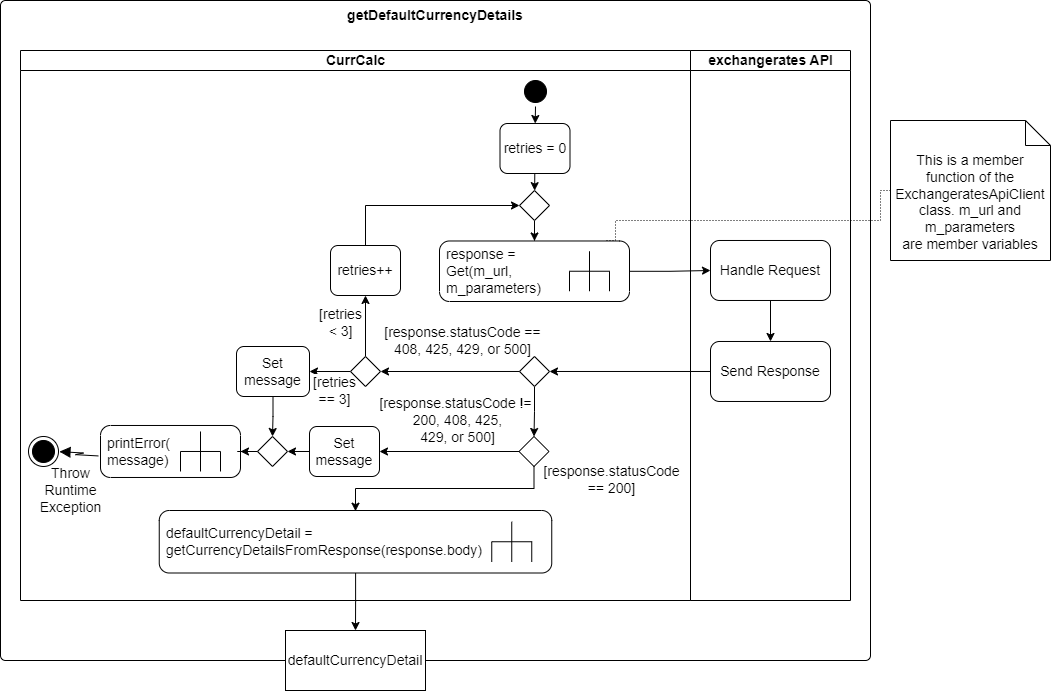
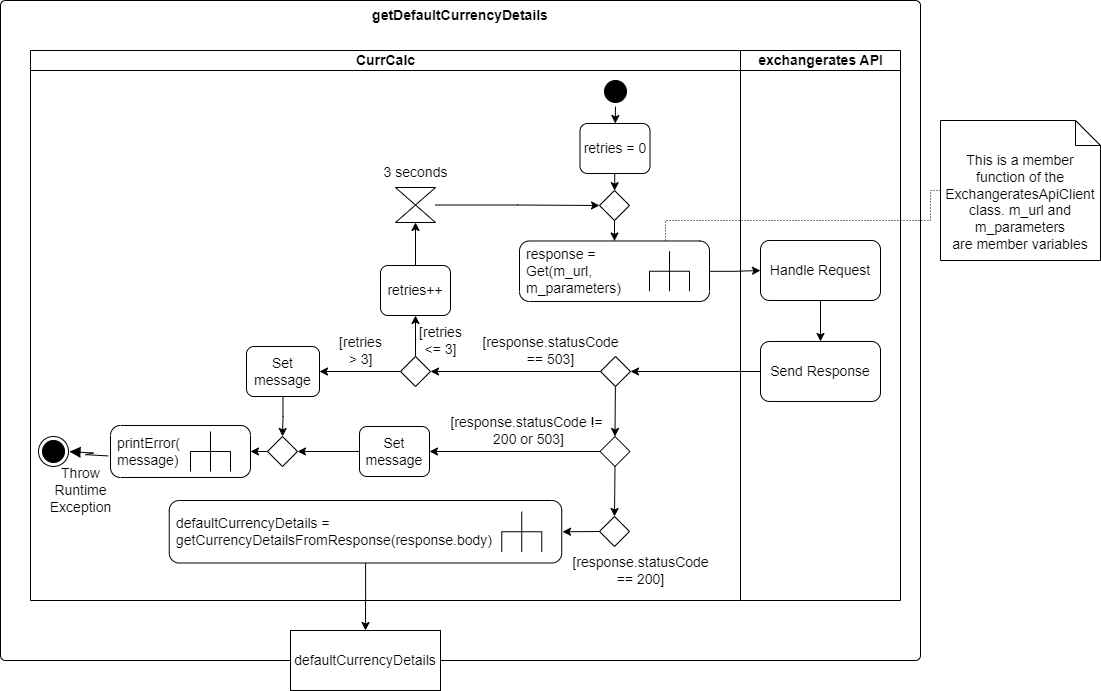
- Reworked class diagram - Updated class diagram description - Reworked activity diagrams - Reworked and added to activity diagram descriptions - Corrected typos - Reworked use case description

diff --git a/documentation/README.md b/documentation/README.md
@@ -1,6 +1,6 @@
 # Software Design
 
-This file contains all the documentation to CurrCalc's software design. This includes functional requirements, non-functional requirements, and architectural diagrams and descriptions.
+This file contains all the documentation to CurrCalc's software design. This includes functional requirements, non-functional requirements, and architectural diagrams and their descriptions.
 
 ## Table of Contents
 1. **[Goal](#goal)**</br>
@@ -14,29 +14,31 @@ This file contains all the documentation to CurrCalc's software design. This inc
 5. **[Class Diagram](#class-diagram)**</br>
 6. **[Activity Diagrams](#activity-diagrams)**</br>
   6.1 **[Convert Currency](#convert-currency)**</br>
-  6.2 **[getDefaultCurrencyDetails](#getDefaultCurrencyDetails)**</br>
-  6.3 **[getCurrencySelection](#getCurrencySelection)**</br>
-  6.4 **[convertAmount](#convertAmount)**</br>
+  6.2 **[getDefaultCurrencyDetails](#getdefaultcurrencydetails)**</br>
+  6.3 **[getCurrencySelection](#getcurrencyselection)**</br>
+  6.4 **[convertAmount](#convertamount)**</br>
 
 # Goal
 
-CurrCalc is a C++ program, written in C++20, that converts an amount of money from one currency to another. The initial and target currencies as well as the amount are provided by the user, while the currency data is fetched from the [exchangerates API](https://exchangeratesapi.io/documentation/).
+CurrCalc is a console-based program, written in C++20, that converts an amount of money from one currency to another. The initial and target currencies, as well as the amount, are provided by the user while the currency data is fetched from the [exchangerates API](https://exchangeratesapi.io/documentation/).
 
 # Rough Overview
 
-![CurrCalc Rough Overview](https://github.com/DusDus3428/CPP_CurrCalc/blob/feature/01_design/documentation/images/diagrams/01_CurrCalc_RoughOverview.png "CurrCalc Rough Overview")
+![CurrCalc Rough Overview](./images/diagrams/01_CurrCalc_RoughOverview.png "CurrCalc Rough Overview")
 
 A user interacts with CurrCalc by selecting the initial and target currencies and specifying the conversion amount. 
-CurrCalc requests currency data, like the list of available currencies and exchange rates from the external exchangesrates API. If everything goes well, the API will respond with a positive status code and the requested data or, in case of a failure, with just a status code. The REST protocol will be used in the communication between CurrCalc and the exchangerates API.
+CurrCalc requests currency data, like the list of available currencies and exchange rates from the external exchangesrates API. The API responds with a status code and the requested data or, in case of a failure, with just a status code. The REST protocol is used in the communication between CurrCalc and the exchangerates API.
 
 # Requirements
+
+Here are CurrCalc's functional and non-functional requirements.
 
 ## Functional Requirements
 
 | ID        	| Title                          | Description/Use Case (where possible)  														  |
 | ------------- | ------------------------------ | ------------------------------------------------------------------------------------------------------------------------------------------------------ |
 | CurrCalc_FR_1 | Fetch Currencies 		 | CurrCalc should fetch the list of all available currencies from the exchangerates API, so a user is guaranteed up-to-date currency information. 	  |
-| CurrCalc_FR_2 | Select Initial/Target Currency | As a user, I want to select the initial currency and target currency for the conversion from a numbered list, so I know what currencies are available. |
+| CurrCalc_FR_2 | Select Initial/Target Currency | As a user, I want to select the initial and target currencies for the conversion from a numbered list, so I know what currencies are available. |
 | CurrCalc_FR_3 | Specify Conversion Amount 	 | As a user, I want to type in the amount I would like to convert from the initial currency to the target one. |
 | CurrCalc_FR_4 | Fetch Exchange Rates	 | CurrCalc should fetch exchange rates from the exchangerates API, so a user is guaranteed up-to-date exchange rates for the initial and target currencies. |
 | CurrCalc_FR_5 | Convert Amount		 | CurrCalc should convert the specified amount from the selected initial currency to the selected target currency using the appropriate exchange rate fetched in CurrCalc_FR_4. |
@@ -46,14 +48,14 @@ CurrCalc requests currency data, like the list of available currencies and excha
 | ID        	 | Title                          | Description																		   |
 | -------------- | ------------------------------ | ------------------------------------------------------------------------------------------------------------------------------------------------------ |
 | CurrCalc_NFR_1 | Do Not Store API Key In The Repository | The API key to the exchangerates API should not be stored in the online GitHub repository. 	  |
-| CurrCalc_NFR_2 | Retry Failed REST Requests 	  | If the data retrieval requests specified in CurrCalc_FR_2 and CurrCalc_FR_4 return with status code 408, 425, 429, or 500, they should be retried three more times in intervals of three seconds. If no successful request can be processed after that, CurrCalc should terminate with an error message.   |
+| CurrCalc_NFR_2 | Retry Failed REST Requests 	  | If the data retrieval requests specified in CurrCalc_FR_2 and CurrCalc_FR_4 return with status code 503, they should be retried three more times in intervals of three seconds. If no successful request can be processed after that, CurrCalc should terminate with an error message.   |
 | CurrCalc_NFR_3 | Keep Precision of Five Fractional Digits For Conversion 	  | For the conversion an amount with a maximum of five fractional digits should be accepted. If the user inputs more than that, the amount should be rounded to five fractional digits.  |
 
 # Use Cases
 
 ## Use Case Diagram
 
-![CurrCalc Use Case Diagram](https://github.com/DusDus3428/CPP_CurrCalc/blob/feature/01_design/documentation/images/diagrams/02_CurrCalc_UseCaseDiagram.png "CurrCalc Use Case Diagram")
+![CurrCalc Use Case Diagram](./images/diagrams/02_CurrCalc_UseCaseDiagram.png "CurrCalc Use Case Diagram")
 
 There is only one possible use case when interacting with CurrCalc. The "Convert Currency" use case is triggered when the user starts the program, therefore the user is the primary actor. The exchangerates API is a secondary actor in this use case as CurrCalc must fetch the currency information from it.
 
@@ -85,13 +87,14 @@ There is only one possible use case when interacting with CurrCalc. The "Convert
 		<td>Basic Flow</td>
 		<td>
 			<ol type="1">
-				<li>CurrCalc prints a welcome message for the user in the terminal.</li>
+				<li>CurrCalc prints a welcome message for the user in the terminal</li>
 				<li>CurrCalc sends an HTTP GET request to the exchangerates API to retrieve default currency details
 					<ol type="i">
-						<li>The API responds with a JSON object containing the currency details for the default currency, including all exchange rates</li>
+						<li>The API responds with a JSON object containing the default currency details, which includes all exchange rates</li>
 					</ol>
 				</li>
-				<li>CurrCalc outputs a numbered list of currencies, extracted from the default currency details, and prompts the user to pick one for the initial currency
+				<li>CurrCalc extracts all currencies from the exchange rates</li>
+				<li>CurrCalc outputs all currencies in a numbered list and prompts the user to pick one for the initial currency
 					<ol type="i">
 						<li>The user types in the number of the desired initial currency
 							<ol type="a">
@@ -100,7 +103,7 @@ There is only one possible use case when interacting with CurrCalc. The "Convert
 						</li>
 					</ol>
 				</li>
-				<li>CurrCalc outputs a numbered list of currencies, extracted from the default currency details and excluding the initial currency, and prompts the user to pick one for the target currency
+				<li>CurrCalc outputs all currencies, excluding the initial one, in a numbered list and prompts the user to pick one for the target currency
 					<ol type="i">
 						<li>The user types in the number of the desired target currency
 							<ol type="a">
@@ -114,6 +117,7 @@ There is only one possible use case when interacting with CurrCalc. The "Convert
 						<li>The user types in the desired amount as a decimal number
 							<ol type="a">
 								<li>CurrCalc confirms the selection</li>
+								<li>CurrCalc rounds the amount to five fractional digits</li>
 							</ol>
 						</li>
 					</ol>
@@ -131,7 +135,7 @@ There is only one possible use case when interacting with CurrCalc. The "Convert
 	<tr>
 		<td>Alternative Flow(s)</td>
 		<td>
-			In 2.i: The API responds with a status codes 408, 425, 429, or 500
+			In 2.i: The API responds with status codes 503
 			<ol type="1">
 				<li>CurrCalc retries the request three more times in intervals of three seconds
 					<ol type="i">
@@ -144,26 +148,13 @@ There is only one possible use case when interacting with CurrCalc. The "Convert
 					</ol>
 				</li>
 			</ol><br/>
-			In 2.i: The API responds with a status code other than 200, 408, 425, 429, or 500
+			In 2.i: The API responds with a status code other than 200, or 503
 			<ol type="1">
-				<li>CurrCalc informs the user of the situation and offers possible solutions
+				<li>CurrCalc informs the user of the error
 					<ol type="i">
 						<li>CurrCalc terminates</li>
 					</ol>
 				</li>
-			</ol><br/>
-			In 3.i: The user types in an integer that is not on the list, a character, or a string
-			<ol type="1">
-				<li>CurrCalc responds with a prompt to make a selection based on the numbers provided in the list - back to 3 in the basic flow</li>
-			</ol><br/>
-			In 3.i: The user types in a decimal number, whose whole number part is on the list
-			<ol type="1">
-				<li>The fractional part of the number is truncated - proceed with 3.i.a in the basic flow</li>
-			</ol><br/>
-			In 3.i: The user types in a decimal number, whose whole number part is not on the list
-			<ol type="1">
-				<li>The fractional part of the number is truncated</li>
-				<li>CurrCalc responds with a prompt to make a selection based on the numbers provided in the list - back to 3 in the basic flow</li>
 			</ol><br/>
 			In 4.i: The user types in an integer that is not on the list, a character, or a string
 			<ol type="1">
@@ -178,13 +169,26 @@ There is only one possible use case when interacting with CurrCalc. The "Convert
 				<li>The fractional part of the number is truncated</li>
 				<li>CurrCalc responds with a prompt to make a selection based on the numbers provided in the list - back to 4 in the basic flow</li>
 			</ol><br/>
-			In 5.i: The user types in a positive integer
+			In 5.i: The user types in an integer that is not on the list, a character, or a string
 			<ol type="1">
-				<li>CurrCalc converts the integer into a decimal number and confirms the selection - proceed with 5.i.a in the basic flow</li>
+				<li>CurrCalc responds with a prompt to make a selection based on the numbers provided in the list - back to 5 in the basic flow</li>
 			</ol><br/>
-			In 5.i: The user types in a negative decimal number, a negative integer, a character, or a string
+			In 5.i: The user types in a decimal number, whose whole number part is on the list
 			<ol type="1">
-				<li>CurrCalc responds with a prompt to type in an unsigned number for the sum - back to 5.i in the basic flow</li>
+				<li>The fractional part of the number is truncated - proceed with 5.i.a in the basic flow</li>
+			</ol><br/>
+			In 5.i: The user types in a decimal number, whose whole number part is not on the list
+			<ol type="1">
+				<li>The fractional part of the number is truncated</li>
+				<li>CurrCalc responds with a prompt to make a selection based on the numbers provided in the list - back to 5 in the basic flow</li>
+			</ol><br/>
+			In 6.i: The user types in a positive integer
+			<ol type="1">
+				<li>CurrCalc converts the integer into a decimal number and confirms the selection - proceed with 6.i.a in the basic flow</li>
+			</ol><br/>
+			In 6.i: The user types in a negative decimal number, a negative integer, a character, or a string
+			<ol type="1">
+				<li>CurrCalc responds with a prompt to type in an unsigned number for the sum - back to 6.i in the basic flow</li>
 			</ol><br/>
 		</td>
 	</tbody>
@@ -192,33 +196,57 @@ There is only one possible use case when interacting with CurrCalc. The "Convert
 
 # Class Diagram
 
-![CurrCalc Class Diagram](https://github.com/DusDus3428/CPP_CurrCalc/blob/feature/01_design/documentation/images/diagrams/03_CurrCalc_ClassDiagram.png "CurrCalc Class Diagram")
+![CurrCalc Class Diagram](./images/diagrams/03_CurrCalc_ClassDiagram.png "CurrCalc Class Diagram")
 
-At the heart of CurrCalc we will find three classes CurrencyDetails, ExchangeRate, and ExchangeratesApiClient.<br/> 
-CurrencyDetails holds two public properties, a string called "m_currency" for the name of the currency, and a list of ExchangeRate objects called "m_exchangeRates". The latter leads to a composition relationship from CurrencyDetails to ExchangeRate, which also holds two public properties, a string called "m_currency" for the name of the currency, and a double called "m_rate" for the actual exchange rate. The public methods "getCurrencies" and "getCurrenciesWithoutInitialCurrency" use the m_exchangeRates property to extract the currency names and pack them into a list which is then returned. The latter just excludes the initial currency from the list. The "convertAmount" method takes a conversion amount, and the initial and target currencies to perform a conversion using the m_exchangeRates property.<br/>
-Then there is ExchangeratesApiClient. As its name states, it represents the client that sends requests to the exchangesrates API and handles the responses. Its only property is "m_cprWrapper", a pointer to a CprWrapperInterface object, which leads to a composition relationship to the abstract class CprWrapperInterface. This will be explained shortly. The public getDefaultCurrencyDetails() method sends a request to the API to retrieve the currency details of the API's default currency (currently it's EUR). Then it utilizes the private getCurrencyDetailsFromResponse() method, which takes the response body as an argument, to extract and transform the information into a CurrencyDetails object.<br/>
-As mentioned above a ExchangeratesApiClient object has an attribute that points to a CprWrapperInterface object. CprWrapperInterface wraps the Get() method from the cpr library in a virtual method of the same name. Cpr's get method sends GET requests to APIs using a URL and parameters. That is why CprWrapperInterface has the two attributes "m_url" and "m_parameters". Two concrete classes inherit from this abstract one: CprWrapper and MockCprWrapper. CprWrapper implements the inherited Get() method which simply returns the cpr library's Get() method. MockCprWrapper is used for testing purposes to mock GET requests and the responses. This is why CprWrapperInterface mainly exists: to decouple the code and make it more testable for unit tests.
+CurrencyDetails:<br/> 
+This class is really the heart of the application as it contains all the data that is processed for the user. It contains three private properties: ```m_baseCurrency``` which represents the name of the currency, a list called ```m_exchangeRates```, and a list called ```m_allCurrencies```.<br/> 
+Since ```ExchangeRate``` objects can only exist as part of a ```CurrencyDetails``` object, the m_exchangeRates field leads to a composition relationship from CurrencyDetails to ExchangeRate.<br/>
+m_allCurrencies is a list of all currencies that are extracted from m_exchangeRates during an object's construction.<br/> 
+Usually, getter-methods are not mentioned in class diagrams but the public methods ```getCurrencies()``` and ```getCurrenciesWithoutInitialCurrency()``` are somewhat important. They use m_allCurrencies to return the list of all currencies but latter just excludes the initial currency from the list.<br/> 
+The public ```convertAmount()``` method takes a conversion amount, and the initial and target currencies to perform a conversion using m_exchangeRates.<br/>
+
+ExchangeRate:<br/> 
+Only holds two public properties, a string called ```m_currency``` for the name of the currency, and a double called ```m_rate``` for the actual exchange rate.<br/>
+
+ExchangeratesApiClient:<br/>
+As its name states, it represents the client that sends requests to the exchangesrates API and handles the responses. Its only property is ```m_cprWrapper```, a pointer to a ```CprWrapperInterface``` object, which leads to a composition relationship to that class. This will be explained in the next paragraph.<br/>
+The public ```getDefaultCurrencyDetails()``` method sends a request to the API to retrieve the currency details of the API's default currency (currently it's EUR). Then it utilizes the private ```getCurrencyDetailsFromResponse()``` method, which takes the response body as an argument, to extract and transform the information into a CurrencyDetails object.<br/>
+
+CprWrapperInterface:<br/> 
+Wraps the ```Get()``` method from the cpr library in a virtual method of the same name. Cpr's Get() method simply sends GET requests to APIs using a URL and parameters. That is why CprWrapperInterface has the two private attributes ```m_url``` and ```m_parameters```.<br/>
+Two concrete classes inherit from this abstract one: ```CprWrapper``` and ```MockCprWrapper```.<br/>
+CprWrapper implements the inherited Get() method to make it return the cpr library's Get() method.<br/>
+MockCprWrapper just mocks the Get() method for testing purposes. This is why CprWrapperInterface mainly exists: to decouple the code and make it more testable for unit tests.
 
 # Activity Diagrams
 
+These activity diagrams showcase the flow of CurrCalc on a technical level. Their target audience are therefore software engineers.
+
 ## Convert Currency
 
-![CurrCalc Activity Diagram for Convert Currency](https://github.com/DusDus3428/CPP_CurrCalc/blob/feature/01_design/documentation/images/diagrams/04_CurrCalc_ActivityDiagram_ConvertCurrency.png "CurrCalc Activity Diagram for Convert Currency")
+![CurrCalc Activity Diagram for Convert Currency](./images/diagrams/04_CurrCalc_ActivityDiagram_ConvertCurrency.png "CurrCalc Activity Diagram for Convert Currency")
 
-The activity diagram above showcases the main flow of the program.<br/> 
-Once CurrCalc is started, the program will send a REST request to the exchangerates API to retrieve the list of the names of available currencies. Once the API sends this to CurrCalc, the user must choose one of the currencies from the numbered list to use for the initial currency. If the user decides to make an input that is not one of the numbers on the list, they will be prompted to do so again until a valid selection has been made. This check is made within the Get Currency Selection activity.<br/>
-After the selection has been made, CurrCalc uses it to request the full details of the currency, including the exchangerates for the other currencies. Once the API sends these to CurrCalc, the user is prompted to type in the amount that is to be converted. If the user types in something other than a positive integer or positive floating point number, they will be prompted to do so again until a valid number has been provided. Side note: positive integer numbers are converted into floating point numbers. This check is made within the Get Conversion Amount activity.<br/>
-Next, the user must choose the target currency from a numbered list. The activity Get Currency Selection is reused here. The only difference is that the numbered list is gathered from the initial currency's exchange rates. This is done for two reasons: on one hand, we do not know if the API has all the exchange rates for the selected initial currency, and on the other, we do not need to include the initial currency.<br/>
-Once this is done, the specified amount will be converted from the initial currency into the target one and the results will be printed to the console. Then the CurrCalc program is terminated. 
+The activity diagram above showcases the main flow of the program. That is why is carries the name of the use case described above: Convert Currency<br/> 
+Once CurrCalc is started, it prints a welcome message for the user and creates a ```client``` to connect with the exchangerates API. The client (via ```getDefaultCurrencyDetails()```) then sends a REST request to the API to retrieve the default currency details which is stored in ```defaultCurrencyDetails```.<br/> 
+Since defaultCurrencyDetails contains all exchange rates, the list of all currencies is extracted from it and stored in ```currencyList```. This currencyList is then used to get the user's selection for the initial currency which is stored in ```initialCurrency``` (via ```getCurrencySelection()```).<br/> 
+Next, using defaultCurrencyDetails a currency list without the initial currency is stored in ```currencyListWithoutInitialCurrency```. The process mentioned above is then repeated to get the ```targetCurrency``` from the user.<br/>
+The user then specifies the ```conversionAmount``` (via ```getConversionAmount()```) which is used in conjunction with initialCurrency and targetCurrency to perform the actual conversion (via ```convertAmount()```). The results are stored in ```convertedAmount``` and printed out for the user. After this the program terminates. 
 
 ## getDefaultCurrencyDetails
 
-![CurrCalc Activity Diagram for getDefaultCurrencyDetails](https://github.com/DusDus3428/CPP_CurrCalc/blob/feature/01_design/documentation/images/diagrams/05_CurrCalc_ActivityDiagram_getDefaultCurrencyDetails.png "CurrCalc Activity Diagram for getDefaultCurrencyDetails")
+![CurrCalc Activity Diagram for getDefaultCurrencyDetails](./images/diagrams/05_CurrCalc_ActivityDiagram_getDefaultCurrencyDetails.png "CurrCalc Activity Diagram for getDefaultCurrencyDetails")
+
+This activity diagram describes the getDefaultCurrencyDetails() activity referenced in the Convert Currency activity. It details the process of sending a requests to the exchangerates API to retrieve the default currency details.<br/>
+Once the activity has been invoked by the parent activity, the retry counter for requests, ```retries```, is set to 0. This is necessary to track the amount of retries that have already occurred.<br/>
+After this the request is sent to the API (via ```Get()```). The ```response``` is stored after the API has handled the request and sent the response.<br/>
+If the response's status code is 503 (service unavailable) and the retry counter is not larger than three, the counter is increased by one and after three seconds the request is repeated. If the counter is larger than three an error message is printed for the user before an exception is thrown, terminating the program.<br/>
+If the response's status code is neither 200 nor 503 an error message is printed for the user before an exception is thrown, terminating the program. No retry is warranted here according to the API's [documentation](https://exchangeratesapi.io/documentation/).<br/>
+If the response's status code is 200 the response body is used to extract the default currency details (via ```getCurrencyDetailsFromResponse()```) which is then stored in ```defaultCurrencyDetails``` and returned to the parent activity.<br/>
 
 ## getCurrencySelection
 
-![CurrCalc Activity Diagram for getCurrencySelection](https://github.com/DusDus3428/CPP_CurrCalc/blob/feature/01_design/documentation/images/diagrams/06_CurrCalc_ActivityDiagram_getCurrencySelection.png "CurrCalc Activity Diagram for getCurrencySelection")
+![CurrCalc Activity Diagram for getCurrencySelection](./images/diagrams/06_CurrCalc_ActivityDiagram_getCurrencySelection.png "CurrCalc Activity Diagram for getCurrencySelection")
 
 ## convertAmount
 
-![CurrCalc Activity Diagram for convertAmount](https://github.com/DusDus3428/CPP_CurrCalc/blob/feature/01_design/documentation/images/diagrams/07_CurrCalc_ActivityDiagram_convertAmount.png "CurrCalc Activity Diagram for convertAmount")
+![CurrCalc Activity Diagram for convertAmount](./images/diagrams/07_CurrCalc_ActivityDiagram_convertAmount.png "CurrCalc Activity Diagram for convertAmount")
